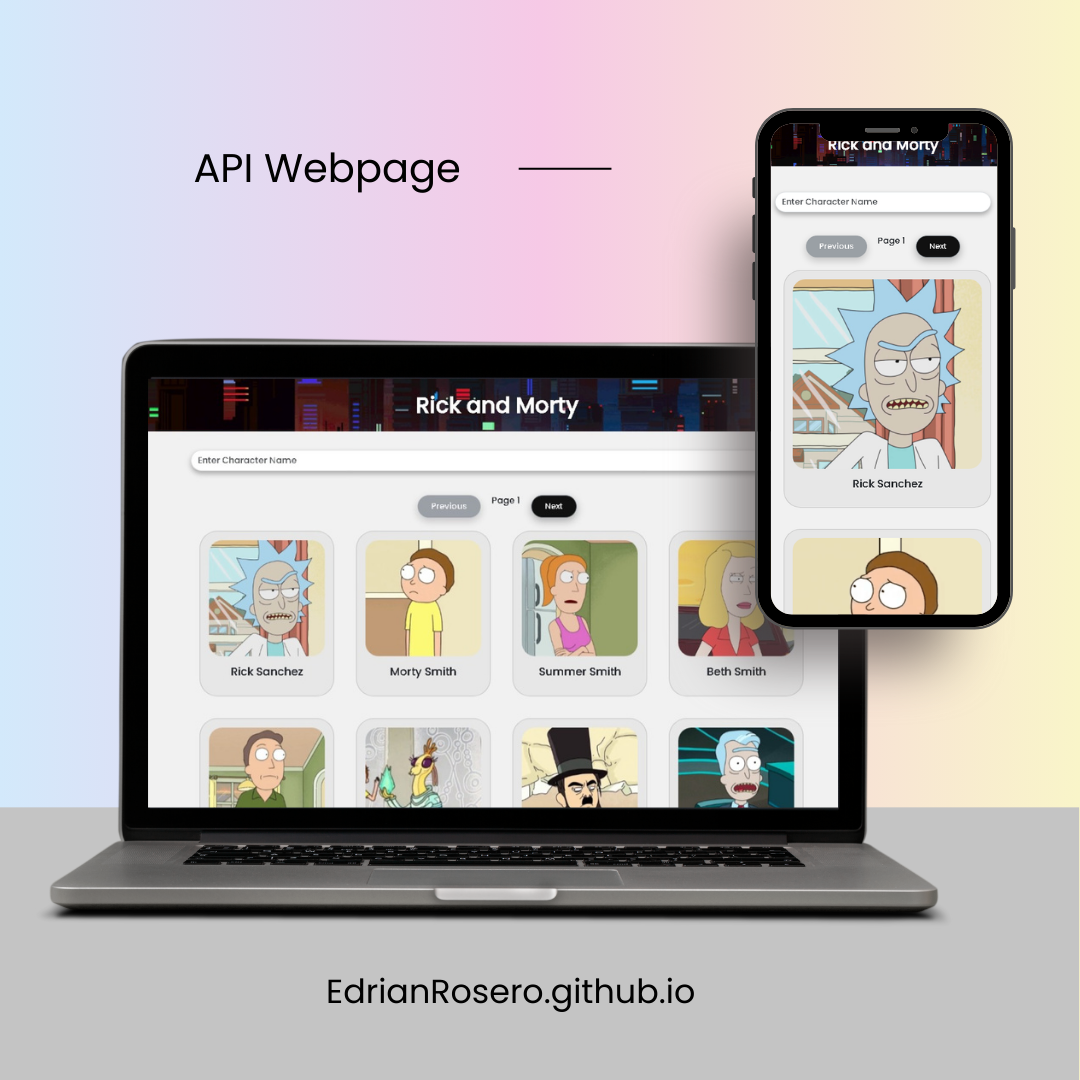
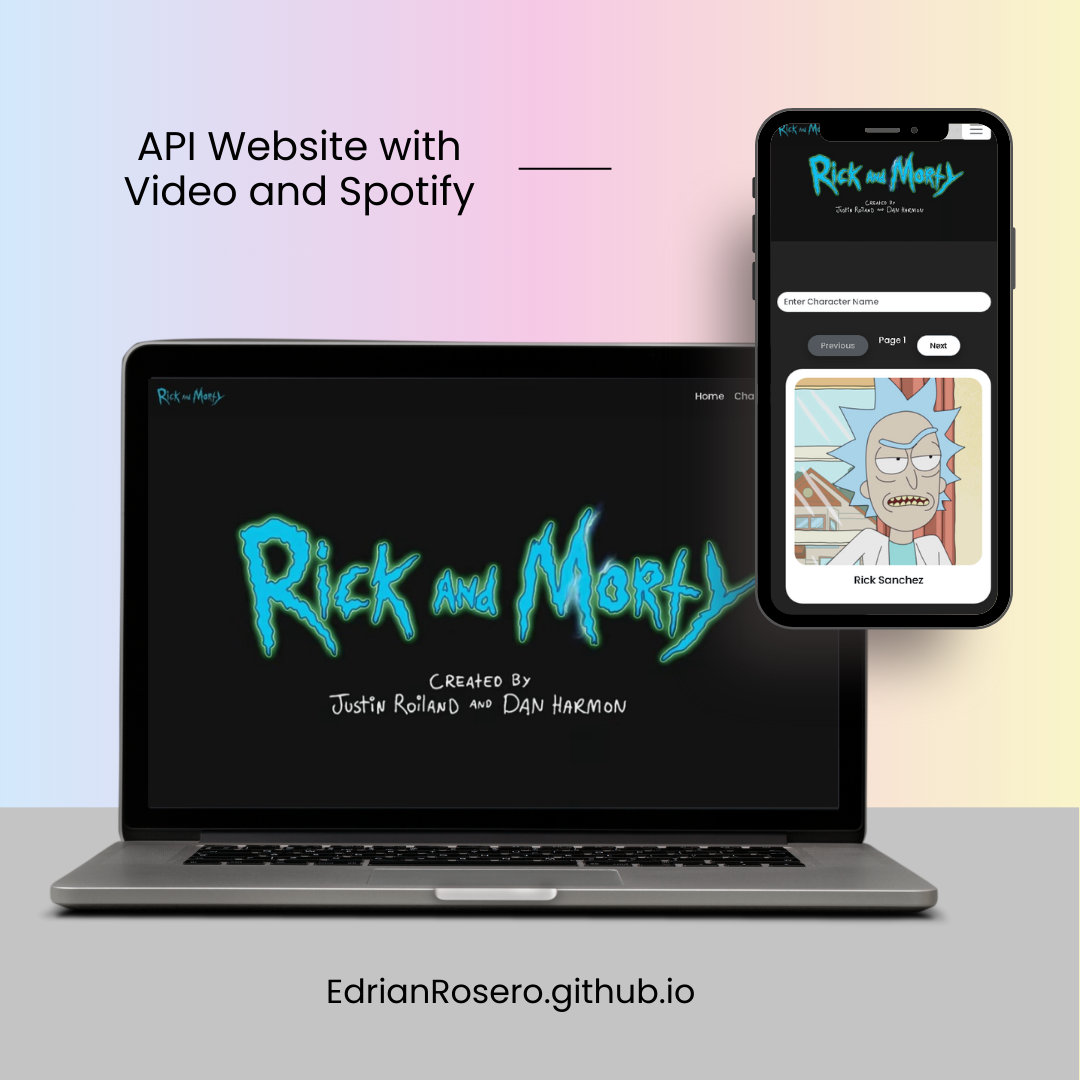
Updated projects

diff --git a/index.html b/index.html
@@ -234,15 +234,15 @@
         });
 
         var names = ["SAM A01", "SAM A02", "SAM A03", "SAM A04", "SAM M01", "SAM M02", "SAM M03"]
-        var description = ["A tri-fold A4 brochure that showcases the product's attributes,properties, and characteristics.", "A webpage that showcases the country of China, featuring an embedded video and interactive map.", "A dedicated website that showcases the collection of SAM projects.", "Rick and Morty API Webpage", "This page features a seamless video integration using the YouTube Embed API", "Working Pa", "404 Not Found"]
-        var links = ["https://drive.google.com/file/d/1pBqQF33GPYlFYzEKFSK1gx0oKMlWAkQS/view?usp=sharing", "projects/SAM A02/index.html", "index.html", "projects/SAM A04/index.html", "projects/SAM M01/index.html", "Wla pa", "404.html"]
-        var images = ["assets/images/home-imgs/card1.png", "assets/images/home-imgs/card2.png", "assets/images/home-imgs/card3.png", "assets/images/home-imgs/card4.png", "assets/images/home-imgs/card5.png", "Not yet", "assets/images/home-imgs/card7.png"];
+        var description = ["A tri-fold A4 brochure that showcases the product's attributes,properties, and characteristics.", "A webpage that showcases the country of China, featuring an embedded video and interactive map.", "A dedicated website that showcases the collection of SAM projects.", "Rick and Morty API Website with Embedded Video and Spotify", "This page features a seamless video integration using the YouTube Embed API", "Application", "404 Not Found"]
+        var links = ["https://simplebooklet.com/sama01", "projects/SAM A02/index.html", "index.html", "projects/SAM A04/index.html", "projects/SAM M01/index.html", "https://drive.google.com/drive/folders/1orfd9Onw1MroUe8Zfm4ksKoAjciE8fAR?usp=sharing", "404.html"]
+        var images = ["assets/images/home-imgs/card1.png", "assets/images/home-imgs/card2.png", "assets/images/home-imgs/card3.png", "assets/images/home-imgs/card4.png", "assets/images/home-imgs/card5.png", "assets/images/home-imgs/card6.png", "assets/images/home-imgs/card7.png"];
 
         for (var i = 0; i < names.length; i++) {
             var projectContent = document.getElementById("project-content");
             projectContent.innerHTML += `<div class="col-12 col-lg-4 col-md-6 d-flex align-items-stretch my-3">
                     <div class="card text-center">
-                        <a href="${links[i]}" class="text-decoration-none">
+                        <a href="${links[i]}" class="text-decoration-none" target="_blank">
                             <img src="${images[i]}" class="card-img" alt="${names[i]}">
                             <div class="card-body">
                                 <h2 class="card-title mt-0" style="font-size: 1.8rem;color: #111; line-height: 2.25rem;">${names[i]}</h2>
